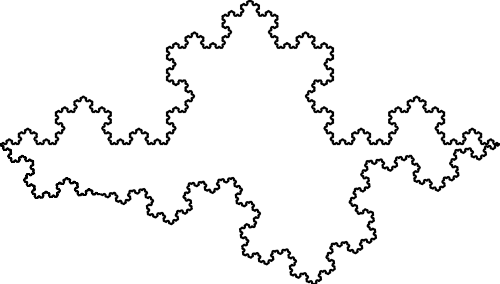
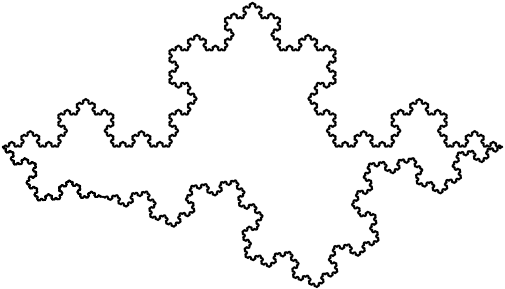
add examples; go fmt

Changed region(s): [[0.0, 0.0, 1.0, 1.0]]

diff --git a/fractals.go b/fractals.go
@@ -70,13 +70,15 @@ func (f Fractal) ToFile(path string) error {
 		}
 	}
 
-	i := image.NewRGBA(image.Rect(0, 0, int(maxX-minX), int(maxY-minY)))
+	w := int(maxX-minX) + 5
+	h := int(maxY-minY) + 5
+	i := image.NewRGBA(image.Rect(0, 0, w, h))
 	gc := draw2d.NewGraphicContext(i)
 
 	for _, line := range f.Lines {
 		gc.SetLineWidth(float64(line.Width))
-		gc.MoveTo(-minX+line.X1, -minY+line.Y1)
-		gc.LineTo(-minX+line.X2, -minY+line.Y2)
+		gc.MoveTo(2.5+-minX+line.X1, 2.5+-minY+line.Y1)
+		gc.LineTo(2.5+-minX+line.X2, 2.5+-minY+line.Y2)
 		gc.Stroke()
 	}
 

diff --git a/fractals_test.go b/fractals_test.go
@@ -20,3 +20,17 @@ func TestEquilateral(t *testing.T) {
 	f.Next(8)
 	f.ToFile("png/equal_fractal.png")
 }
+
+func TestGenExamples(t *testing.T) {
+	initial := []Line{NewLine(0, 0, 100, 0, 2.0)}
+	f := New(EquilateralTransformer, initial)
+	f.ToFile("png/equal_ex1.png")
+	f.Next(1)
+	f.ToFile("png/equal_ex2.png")
+
+	initial = []Line{NewLine(0, 100, 0, 0, 2.0)}
+	f = New(TreeTransformer, initial)
+	f.ToFile("png/tree_ex1.png")
+	f.Next(1)
+	f.ToFile("png/tree_ex2.png")
+}
